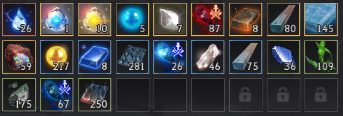
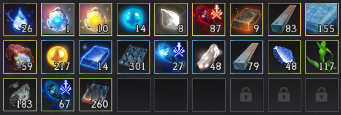
dfsf

diff --git a/black.html b/black.html
@@ -630,24 +630,24 @@
         <div id="모은재료_파템재료"><!-- 빈칸도 만들고, 세로로 나열됨 -->
           <div id="파템재료_일퀘개수" class="d-inline-block 재료높이" style="vertical-align: top;">
             <div><div>필<br>요<br>수</div><div>보<br>유<br>수</div><div>남<br>은<br>수</div><div>일<br><br>get</div><div>일<br>퀘<br>수</div></div>
-            <div><button>42</button><button style="background-color: chartreuse;"  title="심해의눈물">22</button><button></button><button>1</button><button style="background-color: chartreuse;"></button></div><!-- 심해의 눈물 1-->
-            <div><button>30</button><button style="background-color: chartreuse;"  title="화려한 진주 결정">7</button><button></button><button>물교</button><button style="background-color: chartreuse;"></button></div><!-- 화려한 진주 결정-->
+            <div><button>42</button><button style="background-color: chartreuse;"  title="심해의눈물">26</button><button></button><button>1</button><button style="background-color: chartreuse;"></button></div><!-- 심해의 눈물 1-->
+            <div><button>30</button><button style="background-color: chartreuse;"  title="화려한 진주 결정">8</button><button></button><button>물교</button><button style="background-color: chartreuse;"></button></div><!-- 화려한 진주 결정-->
             <div><button></button><button style="background-color: chartreuse;"    title="콕스유물 전투">87</button><button></button><button>3</button><button style="background-color: chartreuse;"></button></div><!-- 콕스유물 전투 -->
-            <div><button>30</button><button style="background-color: chartreuse;"  title="화려한 암염 주괴">8</button><button></button><button>물교</button><button style="background-color: chartreuse;"></button></div><!-- 화려한 암염 주괴-->
-            <div><button>170</button><button style="background-color: chartreuse;" title="짙은파도빛규격각">80</button><button></button><button>3</button><button style="background-color: chartreuse;"></button></div><!--짙은 파도빛이 감도는 규격 각목 3 -->
+            <div><button>30</button><button style="background-color: chartreuse;"  title="화려한 암염 주괴">9</button><button></button><button>물교</button><button style="background-color: chartreuse;"></button></div><!-- 화려한 암염 주괴-->
+            <div><button>170</button><button style="background-color: chartreuse;" title="짙은파도빛규격각">83</button><button></button><button>3</button><button style="background-color: chartreuse;"></button></div><!--짙은 파도빛이 감도는 규격 각목 3 -->
 
-            <div><button>180</button><button style="background-color: chartreuse;" title="달의핏줄이새겨진아마포">145</button><button></button><button>3</button><button style="background-color: chartreuse;"></button></div><!-- 달의 핏줄이 새겨진 아마포 3-->
+            <div><button>180</button><button style="background-color: chartreuse;" title="달의핏줄이새겨진아마포">155</button><button></button><button>3</button><button style="background-color: chartreuse;"></button></div><!-- 달의 핏줄이 새겨진 아마포 3-->
             <div><button></button><button style="background-color: chartreuse;"    title="홍조빛 해저 단괴">59</button><button></button><button>2</button><button style="background-color: chartreuse;"></button></div><!-- 홍조빛 해저 단괴-->
-            <div><button></button><button style="background-color: chartreuse;"    title="빛나는코발트주괴">8</button><button></button><button>물교</button><button style="background-color: chartreuse;"></button></div><!--빛나는 코발트주괴 -->
-            <div><button></button><button style="background-color: chartreuse;"    title="달의비늘이새겨진합판">281</button><button></button><button>10</button><button style="background-color: chartreuse;"></button></div><!-- 달의 비늘이 새겨진 합판-->
-            <div><button></button><button style="background-color: chartreuse;"    title="콕스유물 상급">26</button><button></button><button>1</button><button style="background-color: chartreuse;"></button></div><!-- 콕스유물 상급-->
-            <div><button></button><button style="background-color: chartreuse;"    title="순수한 진주 결정">46</button><button></button><button>2</button><button style="background-color: chartreuse;"></button></div><!-- 순수한 진주결정-->
-            <div><button></button><button style="background-color: chartreuse;"    title="파도빛이 감도는 규격 각목">75</button><button></button><button>3</button><button style="background-color: chartreuse;"></button></div><!--파도빛이 감도는 규격 각목 -->
-            <div><button></button><button style="background-color: chartreuse;"    title="대양의 견고한 현철">36</button><button></button><button>물교</button><button style="background-color: chartreuse;"></button></div><!-- 대양의 견고한 현철-->
-            <div><button></button><button style="background-color: chartreuse;"    title="심해초 줄기">109</button><button></button><button>4</button><button style="background-color: chartreuse;"></button></div><!-- 심해초 줄기-->
-            <div><button></button><button style="background-color: chartreuse;"    title="순수한 암초 조각">175</button><button></button><button>8</button><button style="background-color: chartreuse;"></button></div><!-- 순수한 암초조각-->
+            <div><button></button><button style="background-color: chartreuse;"    title="빛나는코발트주괴">14</button><button></button><button>물교</button><button style="background-color: chartreuse;"></button></div><!--빛나는 코발트주괴 -->
+            <div><button></button><button style="background-color: chartreuse;"    title="달의비늘이새겨진합판">301</button><button></button><button>10</button><button style="background-color: chartreuse;"></button></div><!-- 달의 비늘이 새겨진 합판-->
+            <div><button></button><button style="background-color: chartreuse;"    title="콕스유물 상급">27</button><button></button><button>1</button><button style="background-color: chartreuse;"></button></div><!-- 콕스유물 상급-->
+            <div><button></button><button style="background-color: chartreuse;"    title="순수한 진주 결정">48</button><button></button><button>2</button><button style="background-color: chartreuse;"></button></div><!-- 순수한 진주결정-->
+            <div><button></button><button style="background-color: chartreuse;"    title="파도빛이 감도는 규격 각목">79</button><button></button><button>3</button><button style="background-color: chartreuse;"></button></div><!--파도빛이 감도는 규격 각목 -->
+            <div><button></button><button style="background-color: chartreuse;"    title="대양의 견고한 현철">48</button><button></button><button>물교</button><button style="background-color: chartreuse;"></button></div><!-- 대양의 견고한 현철-->
+            <div><button></button><button style="background-color: chartreuse;"    title="심해초 줄기">117</button><button></button><button>4</button><button style="background-color: chartreuse;"></button></div><!-- 심해초 줄기-->
+            <div><button></button><button style="background-color: chartreuse;"    title="순수한 암초 조각">183</button><button></button><button>8</button><button style="background-color: chartreuse;"></button></div><!-- 순수한 암초조각-->
             <div><button></button><button style="background-color: chartreuse;"    title="콕스유물 하급">67</button><button></button><button>3</button><button style="background-color: chartreuse;"></button></div><!-- 콕스유물 하급-->
-            <div><button></button><button style="background-color: chartreuse;"    title="강화된 섬나무 증착합판">250</button><button></button><button>10</button><button style="background-color: chartreuse;"></button></div><!--강화된 섬나무 증착합판 -->
+            <div><button></button><button style="background-color: chartreuse;"    title="강화된 섬나무 증착합판">260</button><button></button><button>10</button><button style="background-color: chartreuse;"></button></div><!--강화된 섬나무 증착합판 -->
           </div>
           
           <div id="파템재료_재료아이콘" class="d-inline-block 재료높이" style="vertical-align: top;">

diff --git a/portal/assets/js/black.js b/portal/assets/js/black.js
@@ -28,7 +28,7 @@ if (1==1) {
   var 구역02_서끝=['바레미'];
   var 구역02_서북=['알나하','라시드'];
 
-  var 구역03_북서=['로즈반'];
+  var 구역03_북서=['로즈반']; //결과에 북동으로
   var 구역03_남서=['에프데룬'];
   var 구역03_서서남=['마리베노'];
 
@@ -496,7 +496,7 @@ function 섬이름검색1() {
   if (구역02_서끝.find(element => element==text)) {result="구역02_서끝"};
   if (구역02_서북.find(element => element==text)) {result="구역02_서북"};
 
-  if (구역03_북서.find(element => element==text)) {result="구역03_북서"};
+  if (구역03_북서.find(element => element==text)) {result="구역03_북동"};
   if (구역03_남서.find(element => element==text)) {result="구역03_남서"};
   if (구역03_서서남.find(element => element==text)) {result="구역03_서서남"};
 
@@ -553,7 +553,7 @@ function 섬이름검색2() {
   if (구역02_서끝.find(element => element==text)) {result="구역02_서끝"};
   if (구역02_서북.find(element => element==text)) {result="구역02_서북"};
 
-  if (구역03_북서.find(element => element==text)) {result="구역03_북서"};
+  if (구역03_북서.find(element => element==text)) {result="구역03_북동"};
   if (구역03_남서.find(element => element==text)) {result="구역03_남서"};
   if (구역03_서서남.find(element => element==text)) {result="구역03_서서남"};
 
@@ -611,7 +611,7 @@ function 섬이름검색3() {
   if (구역02_서끝.find(element => element==text)) {result="구역02_서끝"};
   if (구역02_서북.find(element => element==text)) {result="구역02_서북"};
 
-  if (구역03_북서.find(element => element==text)) {result="구역03_북서"};
+  if (구역03_북서.find(element => element==text)) {result="구역03_북동"};
   if (구역03_남서.find(element => element==text)) {result="구역03_남서"};
   if (구역03_서서남.find(element => element==text)) {result="구역03_서서남"};
 
@@ -668,7 +668,7 @@ function 섬이름검색4() {
   if (구역02_서끝.find(element => element==text)) {result="구역02_서끝"};
   if (구역02_서북.find(element => element==text)) {result="구역02_서북"};
 
-  if (구역03_북서.find(element => element==text)) {result="구역03_북서"};
+  if (구역03_북서.find(element => element==text)) {result="구역03_북동"};
   if (구역03_남서.find(element => element==text)) {result="구역03_남서"};
   if (구역03_서서남.find(element => element==text)) {result="구역03_서서남"};
 
@@ -725,7 +725,7 @@ function 섬이름검색5() {
   if (구역02_서끝.find(element => element==text)) {result="구역02_서끝"};
   if (구역02_서북.find(element => element==text)) {result="구역02_서북"};
 
-  if (구역03_북서.find(element => element==text)) {result="구역03_북서"};
+  if (구역03_북서.find(element => element==text)) {result="구역03_북동"};
   if (구역03_남서.find(element => element==text)) {result="구역03_남서"};
   if (구역03_서서남.find(element => element==text)) {result="구역03_서서남"};
 
